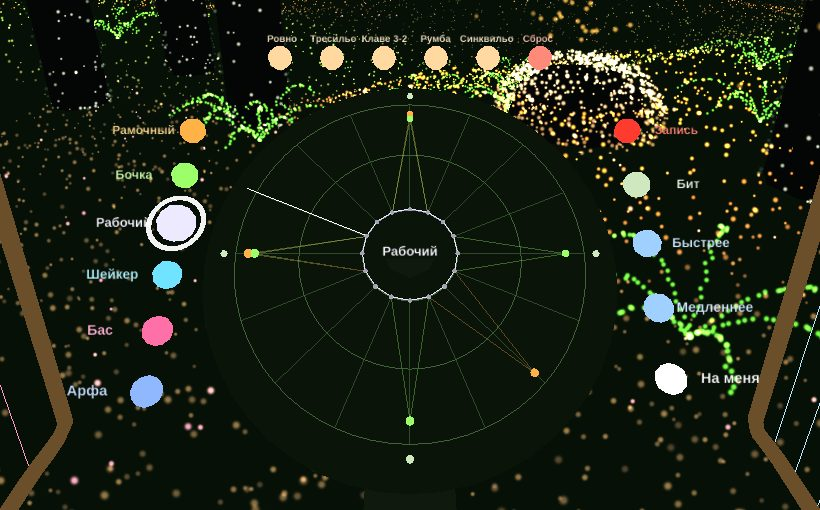
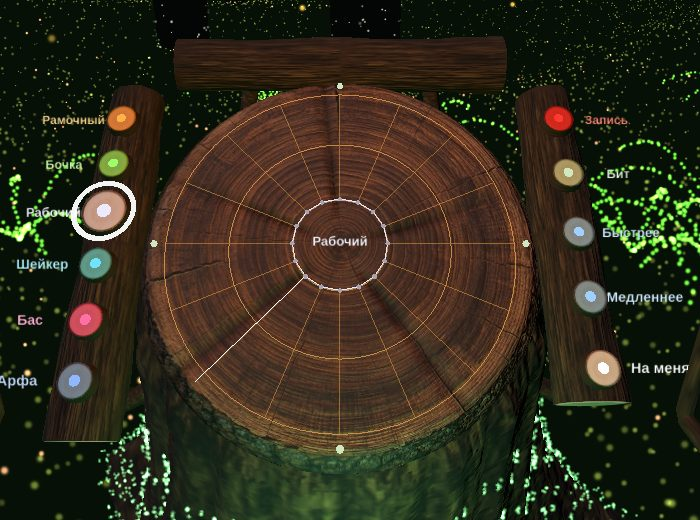
Круг в лесу: версия с пнём и годичными кольцами

diff --git a/krug-v-lesu/index.html b/krug-v-lesu/index.html
@@ -8,12 +8,13 @@ canvas{position:fixed;inset:0;display:block;touch-action:none}
 #ui{position:fixed;left:14px;top:12px;max-width:340px;z-index:5;font-size:13px;text-shadow:0 1px 3px #000;pointer-events:none}#ui button{pointer-events:auto}
 #joy{position:fixed;right:22px;bottom:26px;width:120px;height:120px;border-radius:50%;border:1px solid #9cff6a88;z-index:6;display:none;touch-action:none}
 #joy i{position:absolute;left:40px;top:40px;width:40px;height:40px;border-radius:50%;background:#9cff6a66}
-#ui b{display:inline;font-size:20px}#help summary{list-style:none;cursor:pointer;pointer-events:auto;margin-bottom:4px}#help summary::-webkit-details-marker{display:none}.how{margin-left:8px;font-size:12px;color:#9cff6a;border:1px solid #9cff6a88;border-radius:99px;padding:1px 8px;vertical-align:3px}#help[open] .how::after{content:" ▴"}#help:not([open]) .how::after{content:" ▾"}#vr{display:block}
+#ui b{display:block;font-size:20px;margin-bottom:4px}
 #vr{margin-top:10px;padding:12px 18px;border:1px solid #9cff6a;background:#0b1508;color:#d9ffc4;font:inherit;border-radius:8px;cursor:pointer}
 #vr[disabled]{opacity:.45;cursor:default}
 /* 03.11.2026, слово Влада: без зума и без выделений */
 *{-webkit-user-select:none;user-select:none;-webkit-touch-callout:none;-webkit-tap-highlight-color:transparent;outline:none}
 html,body{touch-action:none;overscroll-behavior:none;-webkit-text-size-adjust:100%}
+#ui b{display:inline;font-size:20px}#help summary{list-style:none;cursor:pointer;pointer-events:auto;margin-bottom:4px}#help summary::-webkit-details-marker{display:none}.how{margin-left:8px;font-size:12px;color:#e0a050;border:1px solid #e0a05088;border-radius:99px;padding:1px 8px;vertical-align:3px}#help[open] .how::after{content:" ▴"}#help:not([open]) .how::after{content:" ▾"}#vr{display:block}
 </style>
 <script>
 (function(){var no=function(e){e.preventDefault()};
@@ -21,7 +22,7 @@ html,body{touch-action:none;overscroll-behavior:none;-webkit-text-size-adjust:10
 document.addEventListener('touchmove',function(e){if(e.touches.length>1||(e.scale&&e.scale!==1))e.preventDefault()},{passive:false});
 })();
 </script></head>
-<body><div id="chat" hidden></div><script src="/f/garden.js?v=12"></script>
+<body><script>window.THEME='koltsa'</script><div id="chat" hidden></div><script src="/f/garden.js?v=12"></script>
 <div id="ui"><details id="help"><summary><b>Круг в лесу</b><span class="how">как играть</span></summary>
 Тяни по пустому месту, чтобы осмотреться, WASD или стрелки, чтобы идти. Слева от круга камни дорожек: тык выбирает дорожку, она обводится кольцом. Справа «Запись»: всё сыгранное ложится в круг. Арфы по бокам, мох, стволы и камни тоже играют.
 <button id="vr" disabled>Проверяю шлем…</button></details></div>
@@ -91,8 +92,11 @@ renderer.setPixelRatio(Math.min(devicePixelRatio,2));renderer.setSize(innerWidth
 renderer.xr.enabled=true;renderer.xr.setReferenceSpaceType('local-floor');
 if(renderer.xr.setFramebufferScaleFactor)renderer.xr.setFramebufferScaleFactor(.9);
 document.body.appendChild(renderer.domElement);
-const scene=new THREE.Scene();scene.background=new THREE.Color(0x020403);scene.fog=new THREE.Fog(0x020403,9,46);
-const camera=new THREE.PerspectiveCamera(66,innerWidth/innerHeight,.03,160);
+const scene=new THREE.Scene();scene.background=new THREE.Color(0x020403);
+const TH={koltsa:{tint:[1.15,.95,.7],side:0x2a1a0e,leg:0x1e130a,line:0xc98a3c,ring:0xe0a050,fog:0xffb060,dark:.62,btn:1.1},kamen:{tint:[.72,1,.98],side:0x24282a,leg:0x191d1e,line:0x8fd8e8,ring:0xbdf0ff,fog:0x7fb8c8,dark:.72,btn:1.5}}[window.THEME];
+const txl=new THREE.TextureLoader(),tex=n=>{const t=txl.load('t/'+n+'.jpg');t.colorSpace=THREE.SRGBColorSpace;t.anisotropy=4;return t};
+const texDisk=tex('disk'),texBtn=tex('knopka');
+const camera=new THREE.PerspectiveCamera(66,innerWidth/innerHeight,.03,120);
 camera.position.set(0,1.55,.62);
 addEventListener('resize',()=>{camera.aspect=innerWidth/innerHeight;camera.updateProjectionMatrix();renderer.setSize(innerWidth,innerHeight)});
 
@@ -106,13 +110,16 @@ const pt=(x,y,z,c,k,s,d)=>{P.push(x,y,z);C.push(c[0],c[1],c[2]);K.push(k);S.push
 // мох
 for(let i=0;i<27000;i++){const r=13*Math.pow(rng(),.72)+.1,a=rng()*6.283,x=Math.cos(a)*r,z=Math.sin(a)*r,g=R(.35,1),w=rng()<.05?.8:.1;
   pt(x,H(x,z)+R(0,.05),z,[.2*g+w,.62*g+w*.7,.12*g+w*.3],0,R(.012,.026))}
-// 03.11.2026: дальний мох до 48, чтобы волны уходили в темноту
-for(let i=0;i<22000;i++){const r=13+35*Math.pow(rng(),.85),a=rng()*6.283,x=Math.cos(a)*r,z=Math.sin(a)*r,g=R(.35,1),w=rng()<.04?.7:.08;
-  pt(x,H(x,z)+R(0,.05),z,[.2*g+w,.62*g+w*.7,.12*g+w*.3],0,R(.016,.032))}
+for(let i=0;i<9000;i++){const r=R(13,58),a=rng()*6.283,x=Math.cos(a)*r,z=Math.sin(a)*r,g=R(.3,.9);pt(x,H(x,z)+R(0,.06),z,[.22*g,.58*g,.3*g],0,R(.03,.06))}
 // стволы
 const trunks=[];
-for(let i=0;i<96;i++){const a=rng()*6.283,r=i<32?R(3.2,13):R(13,46),x=Math.cos(a)*r,z=Math.sin(a)*r,tr=R(.13,.3);trunks.push([x,H(x,z),z,tr]);
-  for(let j=0,nj=r<13?400:220;j<nj;j++){const f=rng()*6.283,h=Math.pow(rng(),1.7)*12,lit=Math.max(.15,Math.cos(f-a-3.14));pt(x+Math.cos(f)*tr,H(x,z)+h,z+Math.sin(f)*tr,[.75*lit,.8*lit,.7*lit],1,R(.014,.03),[Math.cos(f),0,Math.sin(f)])}}
+for(let i=0;i<32;i++){const a=rng()*6.283,r=R(3.2,13),x=Math.cos(a)*r,z=Math.sin(a)*r,tr=R(.13,.3);trunks.push([x,H(x,z),z,tr]);
+  for(let j=0;j<400;j++){const f=rng()*6.283,h=Math.pow(rng(),1.7)*12,lit=Math.max(.15,Math.cos(f-a-3.14));pt(x+Math.cos(f)*tr,H(x,z)+h,z+Math.sin(f)*tr,[.75*lit,.8*lit,.7*lit],1,R(.014,.03),[Math.cos(f),0,Math.sin(f)])}}
+// дальние деревья рядами: тёмные колонны и светящаяся кора
+const farT=[];
+for(let i=0;i<110;i++){const a=rng()*6.283,r=14+44*Math.pow(rng(),.8),x=Math.cos(a)*r,z=Math.sin(a)*r,tr=R(.28,.75),hh=R(16,30),warm=rng()<.3;farT.push([x,z,tr,hh]);
+  for(let j=0;j<120;j++){const f=a+3.14+R(-1.2,1.2),h=Math.pow(rng(),1.5)*hh,lit=Math.pow(Math.max(0,Math.cos(f-a-3.14)),2)*R(.4,1);pt(x+Math.cos(f)*tr*(1-h/hh*.6),H(x,z)+h,z+Math.sin(f)*tr*(1-h/hh*.6),warm?[1*lit,.62*lit,.3*lit]:[.42*lit,.8*lit,.72*lit],1,R(.05,.09),[Math.cos(f),0,Math.sin(f)])}
+  for(let j=0;j<36;j++){const f=rng()*6.283,e=rng(),h=hh*(.55+.45*e),q=(1-e)*R(1.2,3.4);pt(x+Math.cos(f)*q,H(x,z)+h,z+Math.sin(f)*q,warm?[.5,.34,.16]:[.14,.34,.3],1,R(.06,.11),[Math.cos(f),0,Math.sin(f)])}}
 // камни
 const rocks=[];
 for(let i=0;i<7;i++){const a=rng()*6.283,r=R(2.2,7),x=Math.cos(a)*r,z=Math.sin(a)*r,s=R(.3,.8);rocks.push([x,H(x,z)+s*.2,z,s]);
@@ -123,7 +130,7 @@ for(let i=0;i<30;i++){const a=rng()*6.283,r=R(1.5,6.5),x=Math.cos(a)*r,z=Math.si
 // светлячки
 for(let i=0;i<260;i++){const a=rng()*6.283,r=R(1.2,9);pt(Math.cos(a)*r,R(.7,3.4),Math.sin(a)*r,[1,.75,.28],4,R(.03,.06))}
 // звёзды
-for(let i=0;i<1400;i++){const a=rng()*6.283,e=R(.2,1.45),r=110;pt(Math.cos(a)*Math.cos(e)*r,Math.sin(e)*r+2,Math.sin(a)*Math.cos(e)*r,[.75,.85,1],5,R(.1,.2))}
+for(let i=0;i<1400;i++){const a=rng()*6.283,e=R(.35,1.45),r=75;pt(Math.cos(a)*Math.cos(e)*r,Math.sin(e)*r+2,Math.sin(a)*Math.cos(e)*r,[.75,.85,1],5,R(.1,.2))}
 
 const pg=new THREE.BufferGeometry();
 pg.setAttribute('position',new THREE.Float32BufferAttribute(P,3));
@@ -133,14 +140,14 @@ pg.setAttribute('aSeed',new THREE.Float32BufferAttribute(S,1));
 pg.setAttribute('aSize',new THREE.Float32BufferAttribute(Z,1));
 pg.setAttribute('aDir',new THREE.Float32BufferAttribute(D,3));
 const PAL=LAYERS.map(L=>new THREE.Color(L.col));
-const U={uT:{value:0},uF:{value:0},uK:{value:0},uS:{value:0},uSn:{value:0},uH:{value:0},uD:{value:0},uB:{value:0},uA:{value:0},uM:{value:0},uRec:{value:0},uKeep:{value:1},uScale:{value:900},
+const U={uT:{value:0},uF:{value:0},uK:{value:0},uS:{value:0},uSn:{value:0},uH:{value:0},uD:{value:0},uB:{value:0},uA:{value:0},uM:{value:0},uRec:{value:0},uKeep:{value:1},uTint:{value:new THREE.Vector3(...TH.tint)},uScale:{value:900},
   uR:{value:Array.from({length:16},()=>new THREE.Vector4(0,0,-99,0))},uP:{value:PAL}};
 const WHITE=new THREE.Color(0xffffff);
 const pm=new THREE.ShaderMaterial({uniforms:U,transparent:true,depthWrite:false,blending:THREE.AdditiveBlending,
 vertexShader:`attribute vec3 aCol,aDir;attribute float aKind,aSeed,aSize;
-uniform float uT,uF,uK,uS,uSn,uH,uD,uB,uA,uM,uRec,uKeep,uScale;uniform vec4 uR[16];uniform vec3 uP[6];varying vec3 vC;
+uniform float uT,uF,uK,uS,uSn,uH,uD,uB,uA,uM,uRec,uKeep,uScale;uniform vec3 uTint;uniform vec4 uR[16];uniform vec3 uP[6];varying vec3 vC;
 void main(){if(aKind<1.5&&aSeed>uKeep){gl_Position=vec4(2.,2.,2.,1.);gl_PointSize=0.;vC=vec3(0.);return;}vec3 p=position,c=aCol;float g=1.;
- if(aKind<.5){c=mix(c,c.gbr*1.1,uM*.55);g+=uB*.8*aSeed+uK*.25;
+ if(aKind<.5){c*=uTint;c=mix(c,c.gbr*1.1,uM*.3);g+=uB*.8*aSeed+uK*.25;
   for(int i=0;i<16;i++){float a=uT-uR[i].z;if(a<8.){float d=length(p.xz-uR[i].xy),w=d-a*5.5,e=exp(-w*w*1.4)*(1.-a/8.);c+=uP[int(uR[i].w)]*e*1.6;p.y+=e*.34;}}
   p.y+=sin(p.x*1.1+uT*2.)*sin(p.z*.9-uT*1.6)*.05*uB;}
  else if(aKind<1.5){float w=p.y-uSn*13.;float e=exp(-w*w*.45)*uS;g+=e*5.+uK*.3;c=mix(c,vec3(1.,.95,1.),e);p+=aDir*e*.05*step(.4,aSeed);p.xz+=aDir.xz*uK*.03*aSeed;}
@@ -150,7 +157,7 @@ void main(){if(aKind<1.5&&aSeed>uKeep){gl_Position=vec4(2.,2.,2.,1.);gl_PointSiz
  else{g=.45+.3*sin(uT*.8+aSeed*80.)+uB*1.2+uA*1.3*step(.6,aSeed);p.y+=sin(uT*.1+aSeed*9.)*.3;c=mix(c,uP[5],uA*.5);}
  c=mix(c,c*vec3(1.25,.72,.72),uRec*.5);
  vec4 mv=modelViewMatrix*vec4(p,1.);float z=-mv.z;
- vC=c*g*(aKind>4.5?1.:(1.-smoothstep(4.,44.,z)*.97));
+ float fz=smoothstep(6.,50.,z);if(aKind<4.5)c=mix(c,vec3(.2,.34,.36)*(.4+uB*.5+uK*.25),fz*.55);vC=c*g*(aKind>4.5?1.:(1.-fz*.93));
  gl_PointSize=clamp(aSize*uScale*(1.+.25*min(g,3.))/z,1.,22.);gl_Position=projectionMatrix*mv;}`,
 fragmentShader:`varying vec3 vC;void main(){float d=length(gl_PointCoord-.5);float a=smoothstep(.5,.08,d);gl_FragColor=vec4(vC*a,a);}`});
 const forest=new THREE.Points(pg,pm);forest.frustumCulled=false;scene.add(forest);
@@ -158,11 +165,23 @@ const forest=new THREE.Points(pg,pm);forest.frustumCulled=false;scene.add(forest
 // тёмная земля, стволы и камни, чтобы точки лежали на чём-то
 const dark=new THREE.MeshBasicMaterial({color:0x030604});
 let groundM,trunkM,rockM;
-{const g=new THREE.PlaneGeometry(110,110,90,90);g.rotateX(-Math.PI/2);const p=g.attributes.position;for(let i=0;i<p.count;i++)p.setY(i,H(p.getX(i),p.getZ(i))-.02);groundM=new THREE.Mesh(g,new THREE.MeshBasicMaterial({color:0x061006}));scene.add(groundM);
+{const g=new THREE.PlaneGeometry(130,130,110,110);g.rotateX(-Math.PI/2);const p=g.attributes.position;for(let i=0;i<p.count;i++)p.setY(i,H(p.getX(i),p.getZ(i))-.02);groundM=new THREE.Mesh(g,new THREE.MeshBasicMaterial({color:0x061006}));scene.add(groundM);
  const t=new THREE.InstancedMesh(new THREE.CylinderGeometry(1,1,1,8,1,true),dark,trunks.length),m=new THREE.Matrix4();
  trunks.forEach(([x,y,z,r],i)=>{m.makeScale(r*.97,14,r*.97);m.setPosition(x,y+7,z);t.setMatrixAt(i,m)});scene.add(t);trunkM=t;
  const k=new THREE.InstancedMesh(new THREE.IcosahedronGeometry(1,1),dark,rocks.length);
  rocks.forEach(([x,y,z,s],i)=>{m.makeScale(s*.96,s*.65,s*.96);m.setPosition(x,y,z);k.setMatrixAt(i,m)});scene.add(k);rockM=k}
+
+// глубина: туман, далёкие свечения
+const fogCv=document.createElement('canvas');fogCv.width=512;fogCv.height=64;{const c=fogCv.getContext('2d');c.fillStyle='#000';c.fillRect(0,0,512,64);for(let i=0;i<70;i++){const x=Math.random()*512,y=20+Math.random()*30,r=30+Math.random()*60,g=c.createRadialGradient(x,y,0,x,y,r);g.addColorStop(0,'rgba(255,255,255,.1)');g.addColorStop(1,'rgba(255,255,255,0)');c.fillStyle=g;c.fillRect(0,0,512,64);c.fillRect(0,0,512,64)}}
+{const c=fogCv.getContext('2d');c.globalCompositeOperation='multiply';const g=c.createLinearGradient(0,0,0,64);g.addColorStop(0,'#000');g.addColorStop(.35,'#fff');g.addColorStop(.75,'#fff');g.addColorStop(1,'#000');c.fillStyle=g;c.fillRect(0,0,512,64)}
+const fogT=new THREE.CanvasTexture(fogCv);fogT.wrapS=THREE.RepeatWrapping;fogT.repeat.set(3,1);
+const fogL=[17,24].map((r,i)=>{const m=new THREE.Mesh(new THREE.CylinderGeometry(r,r,5,32,1,true),new THREE.MeshBasicMaterial({map:fogT.clone(),color:TH.fog,transparent:true,opacity:.09-.03*i,blending:THREE.AdditiveBlending,depthWrite:false,side:THREE.BackSide}));m.material.map.repeat.set(3,1);m.material.map.needsUpdate=true;m.position.y=1.7;m.renderOrder=-1;scene.add(m);return m});
+
+const glowCv=document.createElement('canvas');glowCv.width=glowCv.height=128;{const c=glowCv.getContext('2d'),g=c.createRadialGradient(64,64,0,64,64,64);g.addColorStop(0,'#fff');g.addColorStop(.3,'#777');g.addColorStop(1,'#000');c.fillStyle=g;c.fillRect(0,0,128,128)}
+const glowT=new THREE.CanvasTexture(glowCv);
+const glows=[[0,-46,.16,0xffa040],[-20,-38,.09,0x5fd8c0],[24,-34,.11,0xff8a3c],[-42,-8,.11,0xffa040],[44,6,.09,0x5fd8c0],[-18,40,.1,0xff9a40],[26,38,.1,0x6fd0d0]].map(([x,z,o,c])=>{const m=new THREE.Sprite(new THREE.SpriteMaterial({map:glowT,color:c,transparent:true,opacity:o,blending:THREE.AdditiveBlending,depthWrite:false}));m.position.set(x,3,z);m.scale.set(42,13,1);m.o=o;scene.add(m);return m});
+{const g=new THREE.CylinderGeometry(.6,1,1,7,1,true),m=new THREE.InstancedMesh(g,new THREE.MeshBasicMaterial({color:0x020503}),farT.length),mt=new THREE.Matrix4();
+ farT.forEach(([x,z,tr,hh],i)=>{mt.makeScale(tr,hh,tr);mt.setPosition(x,H(x,z)+hh/2,z);m.setMatrixAt(i,mt)});m.frustumCulled=false;scene.add(m)}
 
 // столбы света и искры
 const pillars=[0,1,2].map(()=>{const g=new THREE.CylinderGeometry(1.1,.16,15,12,6,true);const n=g.attributes.position.count,cc=new Float32Array(n*3);for(let i=0;i<n;i++){const v=Math.pow(1-(g.attributes.position.getY(i)+7.5)/15,2.4);cc.set([v,v,v],i*3)}g.setAttribute('color',new THREE.BufferAttribute(cc,3));
@@ -194,13 +213,44 @@ function label(text,col,w=.11){const c=document.createElement('canvas');c.width=
 // ---- круг ---------------------------------------------------------------
 const R0=.09,R1=.33;
 const ring=new THREE.Group();ring.position.set(0,-.62,-.38);ring.rotation.x=-50*Math.PI/180;rig.add(ring);
-{const slab=new THREE.Mesh(new THREE.CylinderGeometry(R1+.045,R1+.075,.05,48),new THREE.MeshBasicMaterial({color:0x0b1409}));slab.rotation.x=Math.PI/2;slab.position.z=-.03;ring.add(slab);
- const leg=new THREE.Mesh(new THREE.CylinderGeometry(.06,.14,1,10),new THREE.MeshBasicMaterial({color:0x10190d}));leg.position.set(0,-1.13,-.41);rig.add(leg)}
+scene.add(new THREE.HemisphereLight(0x7f9fb8,0x1c120a,.7));
+{const d=new THREE.DirectionalLight(0xc4d6ec,1.1);d.position.set(-1.2,2.4,.9);scene.add(d)}
+const warmL=new THREE.PointLight(0xffa050,.6,3,2);warmL.position.set(0,-.12,-.1);rig.add(warmL);
+const rimL=new THREE.PointLight(0x6fe3a0,.9,3.5,2);rimL.position.set(0,-1,.25);rig.add(rimL);
+// кора рисуется кодом
+const barkCv=document.createElement('canvas');barkCv.width=barkCv.height=512;
+{const c=barkCv.getContext('2d');c.fillStyle='#3a2616';c.fillRect(0,0,512,512);
+ for(let i=0;i<1500;i++){const x=Math.random()*512,y=Math.random()*512,l=30+Math.random()*120,v=Math.random(),w=1+Math.random()*7;c.strokeStyle=v<.5?`rgba(12,7,3,${.3+v})`:`rgba(${120+v*50|0},${82+v*40|0},${48+v*20|0},${.1+v*.22})`;c.lineWidth=w;c.beginPath();c.moveTo(x,y);c.bezierCurveTo(x+(Math.random()-.5)*26,y+l*.3,x+(Math.random()-.5)*26,y+l*.7,x+(Math.random()-.5)*14,y+l);c.stroke()}}
+const barkT=new THREE.CanvasTexture(barkCv);barkT.wrapS=barkT.wrapT=THREE.RepeatWrapping;barkT.colorSpace=THREE.SRGBColorSpace;barkT.repeat.set(3,2);
+const barkB=new THREE.CanvasTexture(barkCv);barkB.wrapS=barkB.wrapT=THREE.RepeatWrapping;barkB.repeat.set(3,2);
+const barkM=new THREE.MeshStandardMaterial({map:barkT,bumpMap:barkB,bumpScale:5,roughness:.92,vertexColors:true});
+const barkS=barkM.clone();barkS.vertexColors=false;
+const Rt=R1+.06;
+const diskM=new THREE.MeshStandardMaterial({map:texDisk,bumpMap:texDisk,bumpScale:4,roughness:.72,vertexColors:true,emissive:0xff8a30,emissiveMap:texDisk,emissiveIntensity:.06});
+ring.updateMatrix();
+const cracks=[.5,1.7,2.9,4.1,5.3].map(a=>a+Math.random()*.4);
+{const NR=44,NT=128,p=[],uv=[],col=[],ix=[];
+ for(let i=0;i<=NR;i++)for(let j=0;j<=NT;j++){const t=i/NR,r=t*Rt,a=j/NT*6.283;let z=-.005-.0022*(1+Math.sin(r*210+1.6*Math.sin(a*3)))*.5,ao=1;
+   cracks.forEach(c=>{let d=Math.abs(((a-c+9.42)%6.283)-3.14);d=(3.14-d)*Math.max(r,.02);const e=Math.exp(-Math.pow(d*160,2))*sm(.1,.3,t);z-=.012*e;ao*=1-.75*e});
+   const ed=sm(.9,1,t);z-=.05*ed*ed;ao*=1-.5*ed;p.push(Math.sin(a)*r,Math.cos(a)*r,z);uv.push(.5+Math.sin(a)*t*.5,.5+Math.cos(a)*t*.5);col.push(ao,ao,ao)}
+ for(let i=0;i<NR;i++)for(let j=0;j<NT;j++){const a=i*(NT+1)+j,b=a+1,c=a+NT+1,d=c+1;ix.push(a,c,b,b,c,d)}
+ const g=new THREE.BufferGeometry();g.setAttribute('position',new THREE.Float32BufferAttribute(p,3));g.setAttribute('uv',new THREE.Float32BufferAttribute(uv,2));g.setAttribute('color',new THREE.Float32BufferAttribute(col,3));g.setIndex(ix);g.computeVertexNormals();
+ const top=new THREE.Mesh(g,diskM);top.material.side=THREE.DoubleSide;ring.add(top)}
+{const NT=120,NV=30,p=[],uv=[],col=[],ix=[],v3=new THREE.Vector3(),moss=[],mossC=[];
+ for(let j=0;j<=NT;j++){const a=j/NT*6.283;v3.set(Math.sin(a)*Rt,Math.cos(a)*Rt,-.052).applyMatrix4(ring.matrix);const y0=v3.y,dx=v3.x,dz=v3.z+.38;
+   for(let i=0;i<=NV;i++){const v=i/NV,y=y0+(-1.62-y0)*v,lobe=Math.pow(Math.sin(a*2.5+1),2),rg=Math.sin(a*19+2.4*Math.sin(y*5))+.6*Math.sin(a*37+y*9),s=1+.022*rg*sm(0,.05,v)+.05*sm(0,.06,v)+1.1*Math.pow(v,3.2)*(.3+.7*lobe);
+     const x=dx*s,z=dz*s-.38;p.push(x,y,z);uv.push(j/NT,v*1.6);const ao=(.55+.2*rg+.35)*(1-.55*sm(.82,1,v));col.push(ao,ao,ao);
+     if(v>.25&&Math.random()<.62*v)for(let k=0;k<4;k++){const g=.4+Math.random()*.6;moss.push(x*(1+Math.random()*.02),y+Math.random()*.03,z);mossC.push(.2*g,.75*g,.25*g)}}}
+ for(let j=0;j<NT;j++)for(let i=0;i<NV;i++){const a=j*(NV+1)+i,b=a+1,c=a+NV+1,d=c+1;ix.push(a,b,c,b,d,c)}
+ const g=new THREE.BufferGeometry();g.setAttribute('position',new THREE.Float32BufferAttribute(p,3));g.setAttribute('uv',new THREE.Float32BufferAttribute(uv,2));g.setAttribute('color',new THREE.Float32BufferAttribute(col,3));g.setIndex(ix);g.computeVertexNormals();
+ barkM.side=THREE.DoubleSide;rig.add(new THREE.Mesh(g,barkM));
+ const mg=new THREE.BufferGeometry();mg.setAttribute('position',new THREE.Float32BufferAttribute(moss,3));mg.setAttribute('color',new THREE.Float32BufferAttribute(mossC,3));
+ const mp=new THREE.Points(mg,new THREE.PointsMaterial({size:.016,map:new THREE.CanvasTexture(spCv),vertexColors:true,transparent:true,blending:THREE.AdditiveBlending,depthWrite:false}));rig.add(mp)}
 const ang=s=>s/STEPS*Math.PI*2, spoke=(s,r)=>[Math.sin(ang(s))*r,Math.cos(ang(s))*r,0];
 {const v=[];for(let s=0;s<STEPS;s++){v.push(...spoke(s,R0),...spoke(s,R1))}
  const g=new THREE.BufferGeometry();g.setAttribute('position',new THREE.Float32BufferAttribute(v,3));
- ring.add(new THREE.LineSegments(g,new THREE.LineBasicMaterial({color:0x2f4a2a})));
- [R0,(R0+R1)/2,R1].forEach(r=>{const q=[];for(let i=0;i<64;i++)q.push(Math.sin(i/64*6.283)*r,Math.cos(i/64*6.283)*r,0);const c=new THREE.BufferGeometry();c.setAttribute('position',new THREE.Float32BufferAttribute(q,3));ring.add(new THREE.LineLoop(c,new THREE.LineBasicMaterial({color:0x3f6438})))});
+ ring.add(new THREE.LineSegments(g,new THREE.LineBasicMaterial({color:TH.line,transparent:true,opacity:.65})));
+ [R0,(R0+R1)/2,R1].forEach(r=>{const q=[];for(let i=0;i<64;i++)q.push(Math.sin(i/64*6.283)*r,Math.cos(i/64*6.283)*r,0);const c=new THREE.BufferGeometry();c.setAttribute('position',new THREE.Float32BufferAttribute(q,3));ring.add(new THREE.LineLoop(c,new THREE.LineBasicMaterial({color:TH.ring,transparent:true,opacity:.8})))});
  for(let b=0;b<4;b++){const m=new THREE.Mesh(new THREE.SphereGeometry(.007,6,4),new THREE.MeshBasicMaterial({color:0xcfe8c0}));m.position.set(...spoke(b*4,R1+.022));ring.add(m)}}
 const curves=LAYERS.map(L=>{const g=new THREE.BufferGeometry();g.setAttribute('position',new THREE.BufferAttribute(new Float32Array(STEPS*3),3));const l=new THREE.LineLoop(g,new THREE.LineBasicMaterial({color:L.col,transparent:true}));ring.add(l);return l});
 const beads=new THREE.InstancedMesh(new THREE.IcosahedronGeometry(1,1),new THREE.MeshBasicMaterial({color:0xffffff}),STEPS*LAYERS.length);
@@ -229,19 +279,26 @@ function nowStep(){const sd=60/bpm/4,k=Math.round((ac.currentTime-nextT)/sd);ret
 function lay(l,v){if(rec&&ac){pat[l][nowStep()]=v;return true}return false}
 // 03.11.2026, слово Влада: камни слева только выбирают дорожку, без звука, выбранный обведён кольцом
 LAYERS.forEach((L,i)=>stone(L.name,L.col,()=>{active=i;layerName.draw(L.name,L.col)},-.44,.25-i*.1,'l',i));
-// 03.11.2026, слово Влада: верхний ряд (Ровно, Тресильо, Клаве, Румба, Синквильо, Сброс) скрыт, остались камни слева и справа
+// 03.11.2026, слово Влада: верхний ряд (Ровно, Тресильо, Клаве, Румба, Синквильо, Сброс) скрыт
+if(0)[]
+  .forEach(([n,fn],i,A)=>stone(n,n==='Сброс'?0xff8a7a:0xffd9a0,fn,(i-(A.length-1)/2)*.112,R1+.1,'t'));
 stone('Запись',0xff3b30,()=>{rec=!rec;recS.draw(rec?'Пишу':'Запись',0xff3b30)},.44,.25,'r');
 stone('Бит',0xcfe8c0,()=>{set(1,[0,4,8,12],.85);set(2,[4,12],.8);set(3,[0,2,4,6,8,10,12,14],.55)},.44,.13,'r');
 stone('Быстрее',0x9fd0ff,()=>{bpm=Math.min(150,bpm+6)},.44,.01,'r');
 stone('Медленнее',0x9fd0ff,()=>{bpm=Math.max(60,bpm-6)},.44,-.11,'r');
 stone('На меня',0xffffff,()=>{calib=1},.44,-.23,'r');
-const stoneGeo=new THREE.IcosahedronGeometry(.026,1);let recS;ring.updateMatrix();
-stones.forEach(t=>{t.mesh=new THREE.Mesh(stoneGeo,new THREE.MeshBasicMaterial({color:t.col}));t.mesh.position.set(t.lx,t.ly,.03);t.mesh.userData.stone=t;ring.add(t.mesh);
+const stoneGeo=new THREE.CylinderGeometry(.03,.034,.02,28),stoneSide=barkS,coreGeo=new THREE.CircleGeometry(.0095,16);let recS;ring.updateMatrix();
+const capM=new THREE.MeshStandardMaterial({map:texBtn,bumpMap:texBtn,bumpScale:3,roughness:.7});
+[[-.44,.0,.68,0],[.44,.03,.62,0],[0,R1+.1,.72,1]].forEach(([x,y,l,h])=>{const g=new THREE.CylinderGeometry(.058,.062,l,16,14);const p=g.attributes.position;
+  for(let i=0;i<p.count;i++){const a=Math.atan2(p.getZ(i),p.getX(i)),k=1+.05*Math.sin(p.getY(i)*17+a*2)+.03*Math.sin(a*9+p.getY(i)*31);if(Math.hypot(p.getX(i),p.getZ(i))>.03){p.setX(i,p.getX(i)*k);p.setZ(i,p.getZ(i)*k)}}g.computeVertexNormals();
+  const b=new THREE.Mesh(g,[barkS,capM,capM]);b.position.set(x,y,-.036);if(h)b.rotation.z=Math.PI/2;ring.add(b)});
+[[[-.44,-.08,-.06],[-.47,-.27,-.2],[-.24,-.16,-.17]],[[.44,-.05,-.06],[.47,-.25,-.2],[.24,-.14,-.17]],[[-.2,R1+.1,-.06],[-.22,.3,-.2],[-.12,.2,-.17]],[[.2,R1+.1,-.06],[.22,.3,-.2],[.12,.2,-.17]]].forEach(q=>{
+  ring.add(new THREE.Mesh(new THREE.TubeGeometry(new THREE.CatmullRomCurve3(q.map(a=>new THREE.Vector3(...a))),16,.019,7),barkS))});
+stones.forEach(t=>{t.mesh=new THREE.Mesh(stoneGeo,[stoneSide,new THREE.MeshStandardMaterial({map:texBtn,bumpMap:texBtn,bumpScale:3,roughness:.6,color:new THREE.Color(t.col).multiplyScalar(TH.btn),emissive:t.col,emissiveMap:texBtn,emissiveIntensity:.22}),stoneSide]);t.mesh.rotation.x=Math.PI/2;t.mesh.position.set(t.lx,t.ly,.03);{const c=new THREE.Mesh(coreGeo,new THREE.MeshBasicMaterial({color:t.col}));c.rotation.x=-Math.PI/2;c.position.y=.0105;t.mesh.add(c)}t.mesh.userData.stone=t;ring.add(t.mesh);
   t.rp=t.mesh.position.clone().applyMatrix4(ring.matrix);
   const l=label(t.name,t.col,t.side==='t'?.13:.15);l.position.set(t.lx+(t.side==='l'?-.1:t.side==='r'?.1:0),t.ly+(t.side==='t'?.05:0),.03);ring.add(l);if(t.name==='Запись')recS=l;t.glow=0;t.inside=new Set()});
 
-const selRing=new THREE.Mesh(new THREE.RingGeometry(.046,.056,40),new THREE.MeshBasicMaterial({color:0xffffff,side:THREE.DoubleSide,transparent:true,opacity:.95}));selRing.position.z=.032;ring.add(selRing);
-
+const selRing=new THREE.Mesh(new THREE.RingGeometry(.05,.06,40),new THREE.MeshBasicMaterial({color:0xffffff,side:THREE.DoubleSide,transparent:true,opacity:.95}));selRing.position.z=.045;ring.add(selRing);
 // ---- арфы ----------------------------------------------------------------
 const harps=[{x:.6,z0:-.18,dz:.058,notes:HARP.map(m=>m),col:0xbfe6ff,key:m=>m,top:.12,bot:-.82},
              {x:-.6,z0:-.18,dz:.105,notes:BHARP,col:0xff9ccb,key:m=>'b'+m,top:.12,bot:-.82}];
@@ -252,7 +309,7 @@ harps.forEach((h,hi)=>{h.layer=hi?4:5;h.vib=new Float32Array(h.notes.length);h.p
   h.line=new THREE.LineSegments(g,new THREE.LineBasicMaterial({color:h.col}));h.line.frustumCulled=false;rig.add(h.line);
   const q=[];for(let i=0;i<n;i++)q.push(h.x,h.top_(i)+.02,h.z0+i*h.dz);for(let i=n-1;i>=0;i--)q.push(h.x,h.bot-.02,h.z0+i*h.dz);
   const f=new THREE.BufferGeometry();f.setAttribute('position',new THREE.Float32BufferAttribute(q,3));rig.add(new THREE.LineLoop(f,new THREE.LineBasicMaterial({color:0x8a6a3c})));
-  {const pts=[];for(let i=0;i<q.length;i+=3)pts.push(new THREE.Vector3(q[i],q[i+1],q[i+2]));rig.add(new THREE.Mesh(new THREE.TubeGeometry(new THREE.CatmullRomCurve3(pts,true,'catmullrom',.05),90,.013,6,true),new THREE.MeshBasicMaterial({color:0x6b4f2a})))}
+  {const pts=[];for(let i=0;i<q.length;i+=3)pts.push(new THREE.Vector3(q[i],q[i+1],q[i+2]));rig.add(new THREE.Mesh(new THREE.TubeGeometry(new THREE.CatmullRomCurve3(pts,true,'catmullrom',.05),90,.016,6,true),barkS))}
   const pad=new THREE.Mesh(new THREE.PlaneGeometry((n-1)*h.dz+.06,h.top-h.bot),new THREE.MeshBasicMaterial({side:THREE.DoubleSide}));pad.rotation.y=Math.PI/2;pad.position.set(h.x,(h.top+h.bot)/2,h.z0+(n-1)*h.dz/2);pad.visible=false;rig.add(pad);h.pad=pad;
   const l=label(h===harps[0]?'Арфа':'Бас-арфа',h.col,.14);l.position.set(h.x,h.top+.07,h.z0+h.dz*(n-1)/2);rig.add(l)});
 function strum(h,i){h.vib[i]=1;pluck(h.key(h.notes[i]),.7);react(LAYERS[h.layer].id);lay(h.layer,(i+1)/h.notes.length)}
@@ -351,15 +408,18 @@ function loop(now){frame++;const dt=Math.min(.05,(now-last)/1000);last=now;const
   snT+=dt;U.uSn.value=Math.min(1,snT*1.1);U.uF.value+=dt*(1+U.uH.value*7+U.uB.value*2);
   U.uK.value*=Math.exp(-dt*5);U.uS.value*=Math.exp(-dt*2.6);U.uH.value*=Math.exp(-dt*9);U.uD.value*=Math.exp(-dt*5);U.uB.value*=Math.exp(-dt*3.5);U.uA.value*=Math.exp(-dt*2.2);
   U.uM.value=.5+.5*Math.sin(t*.17);U.uRec.value+=((rec?1:0)-U.uRec.value)*Math.min(1,dt*5);
+  glows.forEach(m=>{m.material.opacity=m.o*(1+U.uB.value*1.2+U.uK.value*.5+U.uRec.value*.3)});
+  fogL.forEach((m,i)=>{m.rotation.y=t*(.008+.004*i)*(i?-1:1);m.material.opacity=(.09-.03*i)*(1+U.uK.value*2.5+U.uD.value*1.5)});
+  diskM.emissiveIntensity=.06+U.uK.value*.3+U.uD.value*.45+U.uB.value*.3;warmL.intensity=.6+U.uK.value*2.2+U.uD.value*1.6+U.uA.value;rimL.intensity=.9+U.uB.value*3;
   pillars.forEach(m=>{m.a*=Math.exp(-dt*3.2);m.material.opacity=m.a;m.material.color.copy(m.tint);m.visible=m.a>.01});
-  scene.background.setRGB(.008+U.uB.value*.03+U.uRec.value*.02,.016+U.uK.value*.018,.012+U.uA.value*.05);scene.fog.color.copy(scene.background);drawSparks(dt);
+  scene.background.setRGB(.008+U.uB.value*.03+U.uRec.value*.02,.016+U.uK.value*.018,.012+U.uA.value*.05);drawSparks(dt);
   if(!renderer.xr.isPresenting)walk(dt);
   if(renderer.xr.isPresenting){const pn=performance.now(),w=Math.min(.2,(pn-fpsL)/1e3);fpsL=pn;fpsW+=w;if(fpsW>0)fpsN++;
     if(fpsW>=1.5){if(fpsN/fpsW<64)U.uKeep.value=Math.max(.3,U.uKeep.value-.15);fpsW=0;fpsN=0}}
   readHands();touch();
   if(letGo&&--mouseHold<=0){letGo=false;mouseF=null;if(fingers.mi)fingers.mi.seen=-9;stones.forEach(t=>t.inside.delete('mi'))}
   drawRing();harps.forEach(h=>drawHarp(h,dt,t));
-  {const S=stones.find(s=>s.isLayer===active);selRing.visible=!!S;if(S)selRing.position.set(S.lx,S.ly,.032)}stones.forEach(s=>{s.glow*=Math.exp(-dt*5);const on=s.isLayer===active||(s.name==='Запись'&&rec&&Math.sin(t*9)>0);s.mesh.scale.setScalar((on?1.4:1)+s.glow*.7)});
+  {const S=stones.find(s=>s.isLayer===active);selRing.visible=!!S;if(S)selRing.position.set(S.lx,S.ly,.045)}stones.forEach(s=>{s.glow*=Math.exp(-dt*5);const on=s.isLayer===active||(s.name==='Запись'&&rec&&Math.sin(t*9)>0);s.mesh.scale.setScalar((on?1.4:1)+s.glow*.7)});
   renderer.render(scene,camera)}
 renderer.setAnimationLoop(loop);
 window.__krug={pat,rig,ring,stones,harps,fingers,U,get active(){return active},get hasHands(){return hasHands},get frame(){return frame},get audio(){return ac&&ac.state},stepNow:()=>step,renderer,camera,keys,bones,dots,get rec(){return rec},peak(){if(!peakA)return 0;peakA.getFloatTimeDomainData(peakD);return Math.max(...peakD.map(Math.abs))}};
